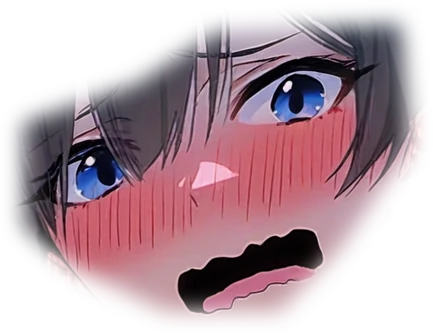
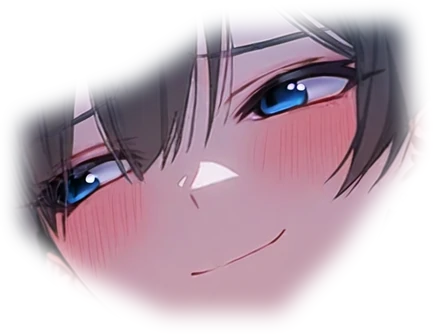
수현 저녁(폰) 표정을 잔잔하게 다시 만듦: 세기 낮추고 감정 조정 (옅은 미소·가는 눈 짜증·시선 피하며 홍조·눈만 커지는 놀람·눈꺼풀 내려온 졸림)
Claude-Session: https://claude.ai/code/session_01B8pQbEtRSQUAPjrPy7M14y

Changed region(s): [[0.06, 0.0893, 0.8707, 0.9524], [0.8406, 0.4464, 0.9007, 0.5655], [0.2702, 0.3274, 0.3002, 0.3571]]

diff --git a/tools/expr.py b/tools/expr.py
@@ -116,6 +116,15 @@ def infill(crop_im, mask, prompt, neg, seed, vibe=None):
 # 표정 → 노벨AI 감정 바꾸기 값
 # sleepy 는 'tired'가 눈 밑을 시커멓게 그려서 'bored'(반쯤 감긴 눈)를 쓴다
 EMOTION = {'smile': 'happy', 'angry': 'angry', 'shy': 'embarrassed', 'surprised': 'surprised', 'sleepy': 'bored'}
+# 잔잔한 표정 (원래 그림체·성격에 맞게): (감정, defry 바꾸는 세기 0=가장 세게 ~ 5=가장 약하게, 덧붙일 말)
+SUBTLE = {
+    'smile': ('happy', 3, 'gentle closed-mouth smile'),
+    'angry': ('irritated', 2, 'narrowed eyes, slight frown'),
+    'shy': ('shy', 2, 'light blush, looking away'),
+    'surprised': ('surprised', 5, 'closed mouth, slightly widened eyes, raised eyebrows, blue eyes'),  # 'surprised'는 약하게 해도 입을 크게 벌리고, 'confused'는 눈이 소용돌이가 된다
+    'sleepy': ('neutral', 2, 'sleepy, drowsy, half-closed eyes'),
+}
+STYLE = os.environ.get('EXPR_STYLE', 'subtle')  # subtle(기본) | strong(예전 세게)
 BIG = 1088  # 무료 칸(1024x1024 이하)은 막혀 있어서 조금 키워 보낸다 (아날스 사용)
 
 
@@ -137,7 +146,13 @@ def make_emotion(key, expr):
     base = Image.open(os.path.join(ROOT, f['img'])).convert('RGB')
     x0, y0 = f['crop']
     crop_im = base.crop((x0, y0, x0 + CROP, y0 + CROP))
-    out = emotion(crop_im, EMOTION[expr], hint=f.get('hint', ''))  # hint: 꼭 남겨야 할 것 (예: 입에 문 칫솔)
+    hint = f.get('hint', '')  # hint: 꼭 남겨야 할 것 (예: 입에 문 칫솔)
+    if STYLE == 'subtle':
+        emo, defry, extra = SUBTLE[expr]
+        out = emotion(crop_im, emo, defry, ', '.join(x for x in (extra, hint) if x))
+    else:
+        emo, defry = EMOTION[expr], 0
+        out = emotion(crop_im, emo, hint=hint)
     if os.environ.get('PREVIEW_DIR'): out.save(os.path.join(os.environ['PREVIEW_DIR'], f'{key}-{expr}-raw.png'))
     # 얼굴(눈썹~턱) 부분만 넉넉히, 가장자리는 부드럽게 붙인다
     m = Image.new('L', (CROP, CROP), 0); ImageDraw.Draw(m).polygon(f['face'], fill=255)
@@ -148,7 +163,7 @@ def make_emotion(key, expr):
     name = f'{scene}-{expr}'
     patch.save(os.path.join(d, name + '.webp'), 'WEBP', quality=90, method=6)
     meta = {'character': code, 'scene': scene, 'expression': expr, 'source': 'NovelAI Director Tools (emotion)',
-            'emotion': EMOTION[expr], 'based_on': f['img'], 'crop': [x0, y0, CROP, CROP],
+            'emotion': emo, 'defry': defry, 'based_on': f['img'], 'crop': [x0, y0, CROP, CROP],
             'patch': {'x': x0 + bx[0], 'y': y0 + bx[1], 'w': bx[2] - bx[0], 'h': bx[3] - bx[1]}}
     json.dump(meta, open(os.path.join(ROOT, 'characters', 'prompts', f'{code}-face-{name}.json'), 'w', encoding='utf-8'), ensure_ascii=False, indent=1)
     prev = crop_im.copy(); prev.paste(out, (0, 0), alpha)
